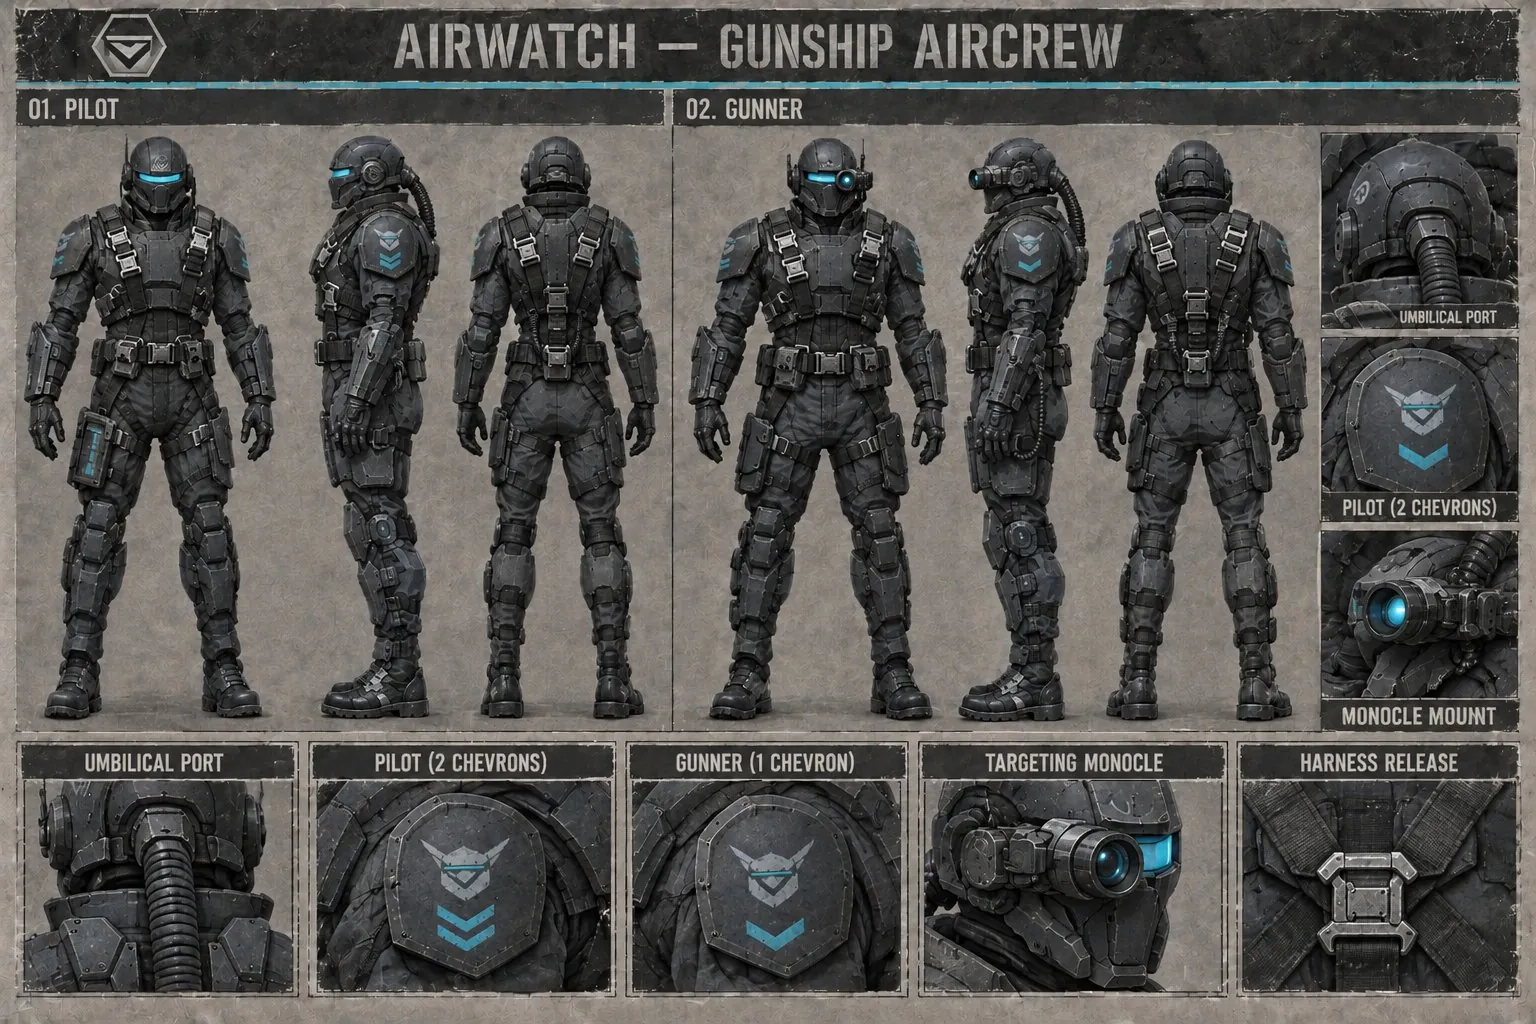
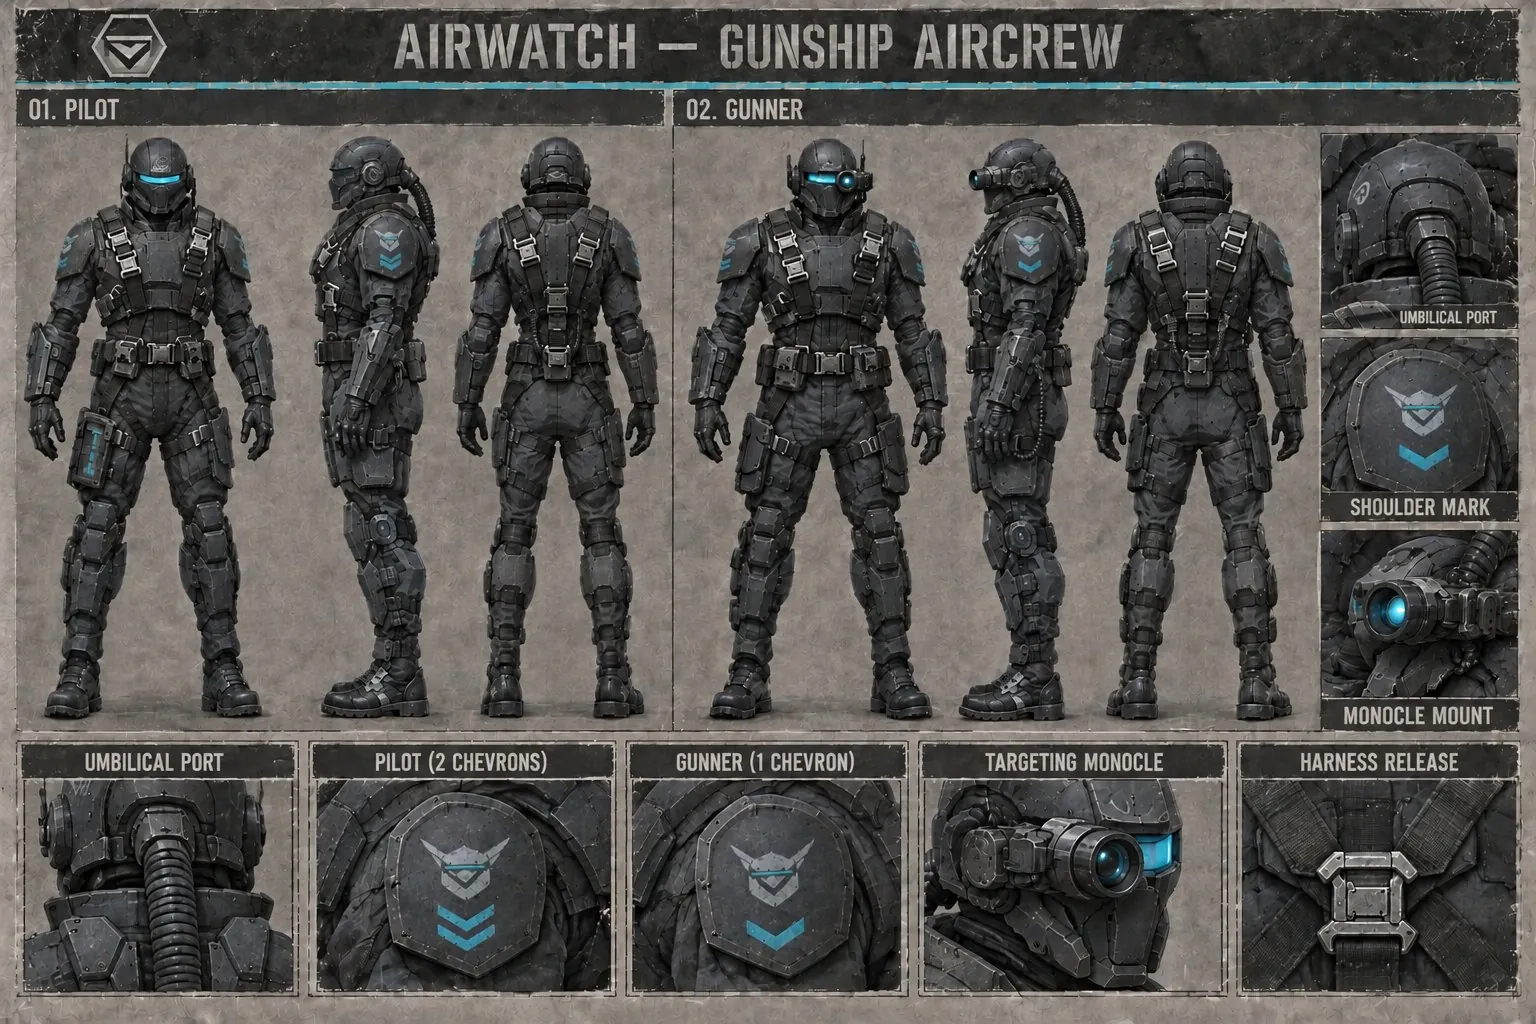
Art: Airwatch aircrew sheet Rev 3 (labels corrected)
Claude-Session: https://claude.ai/code/session_01FPxW8sjExYByq8Hjg1f5Jc

diff --git a/docs/style-sheet.md b/docs/style-sheet.md
@@ -1816,7 +1816,7 @@ Egen design. Förlagan (spelmodellen) bifogas **inte**. Airwatch bär inget tyg:
 | A2 Airwatch-besättning (pilot och skytt) | `airwatch-crew.jpg` | 1 ota-soldier · 2 A1 | förseglad flygrustning, navelsträng i hjälmens nacke, chevroner på skulderplattan |
 | A3 Shrike-gunship | `airwatch-shrike.jpg` | 1 vehicle-ota · 2 A1 · 3 A2 · 4 env/e01-city | tandem pilot/skytt, koaxiala rotorer, hakturret, raketkapslar, trupputrymme (6) mitt på kroppen med skjutdörrar på båda sidor, ingen dörr baktill, "AW-S 09-2" (Rev 2) |
 
-**Klara:** A1, A2 och A3 (Rev 2, redigerad till 3 soldater per dörr) är inlagda i codex-posten Airwatch. A2 Rev 2: högerspaltens mittre etikett säger "PILOT (2 CHEVRONS)" men visar en chevron; byt till "SHOULDER MARK".
+**Klara:** A1, A2 och A3 (Rev 2, redigerad till 3 soldater per dörr) är inlagda i codex-posten Airwatch. A2 Rev 3: etiketterna rättade (MONOCLE MOUNT, SHOULDER MARK).
 
 Undvik orden "rear"/"back" om trupputrymmet i prompten: modellen flyttar då dörrarna bakåt. Skriv "troop bay … sliding side doors on the left and right flanks".
 
